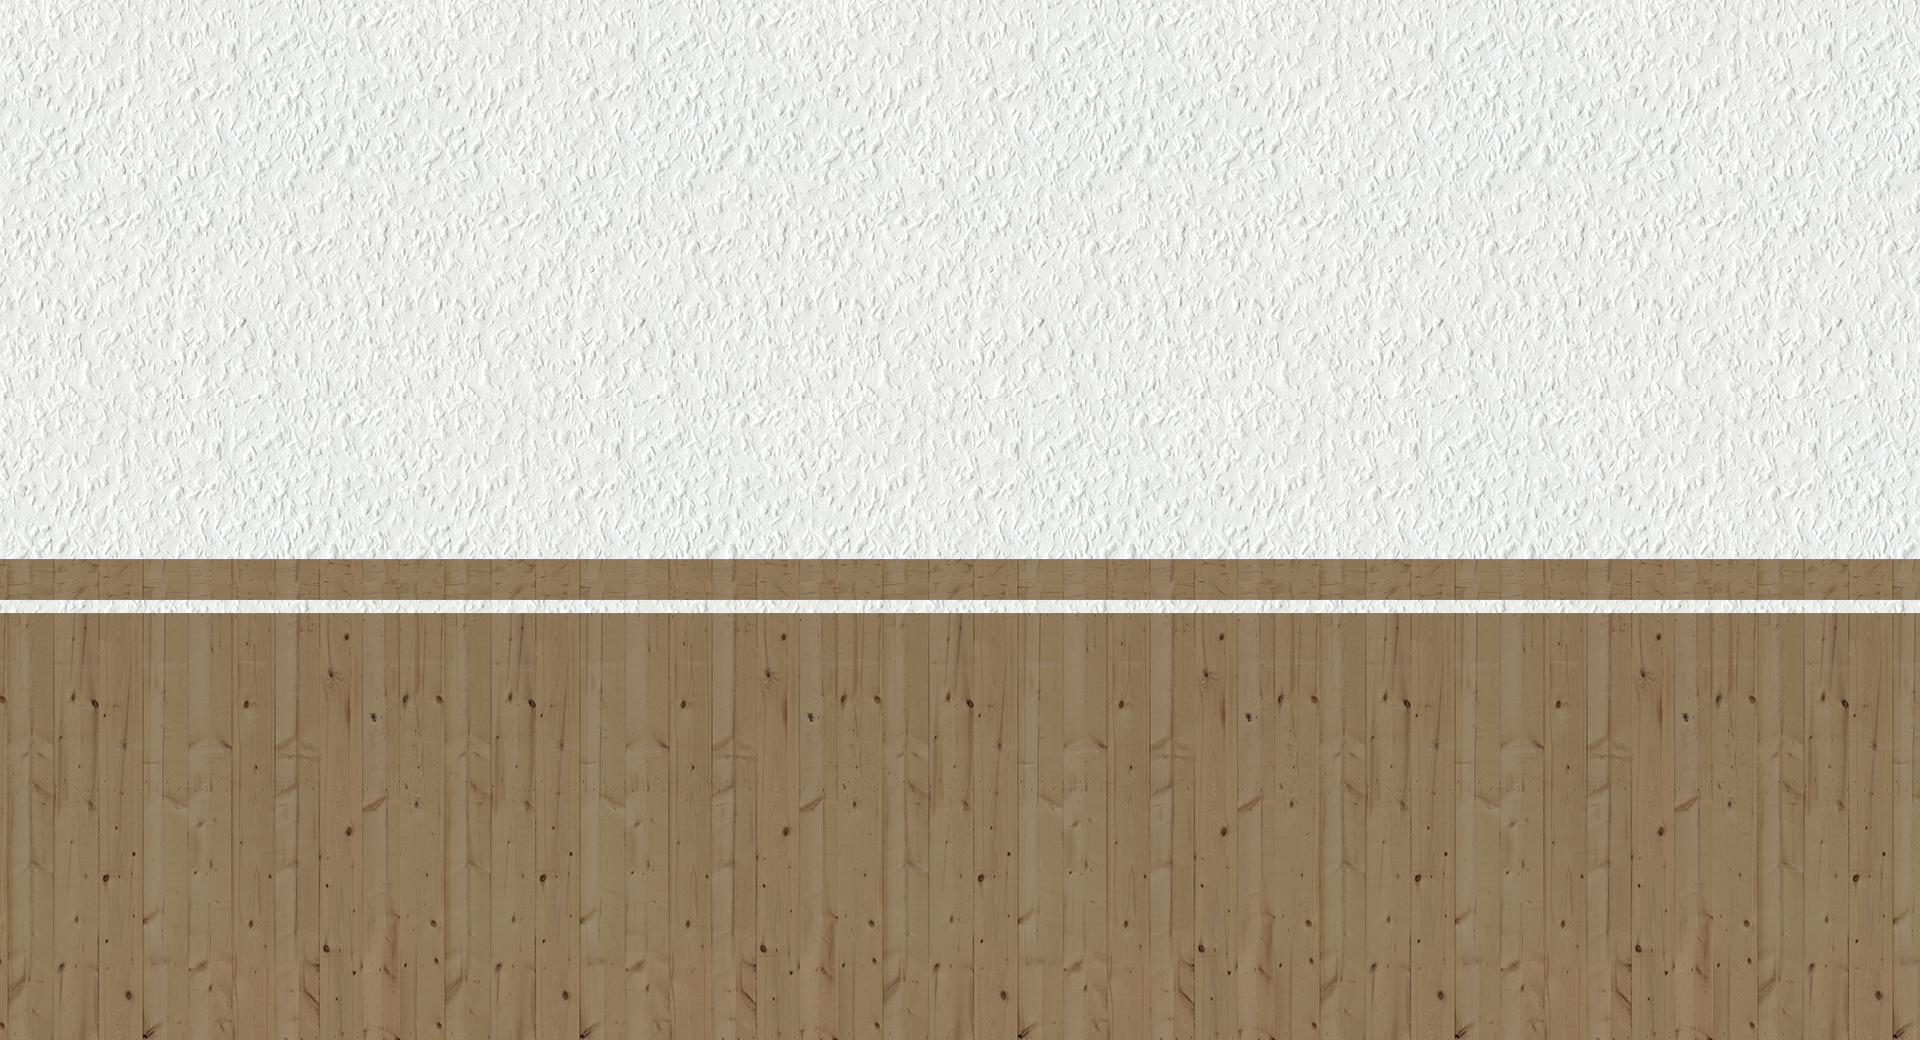
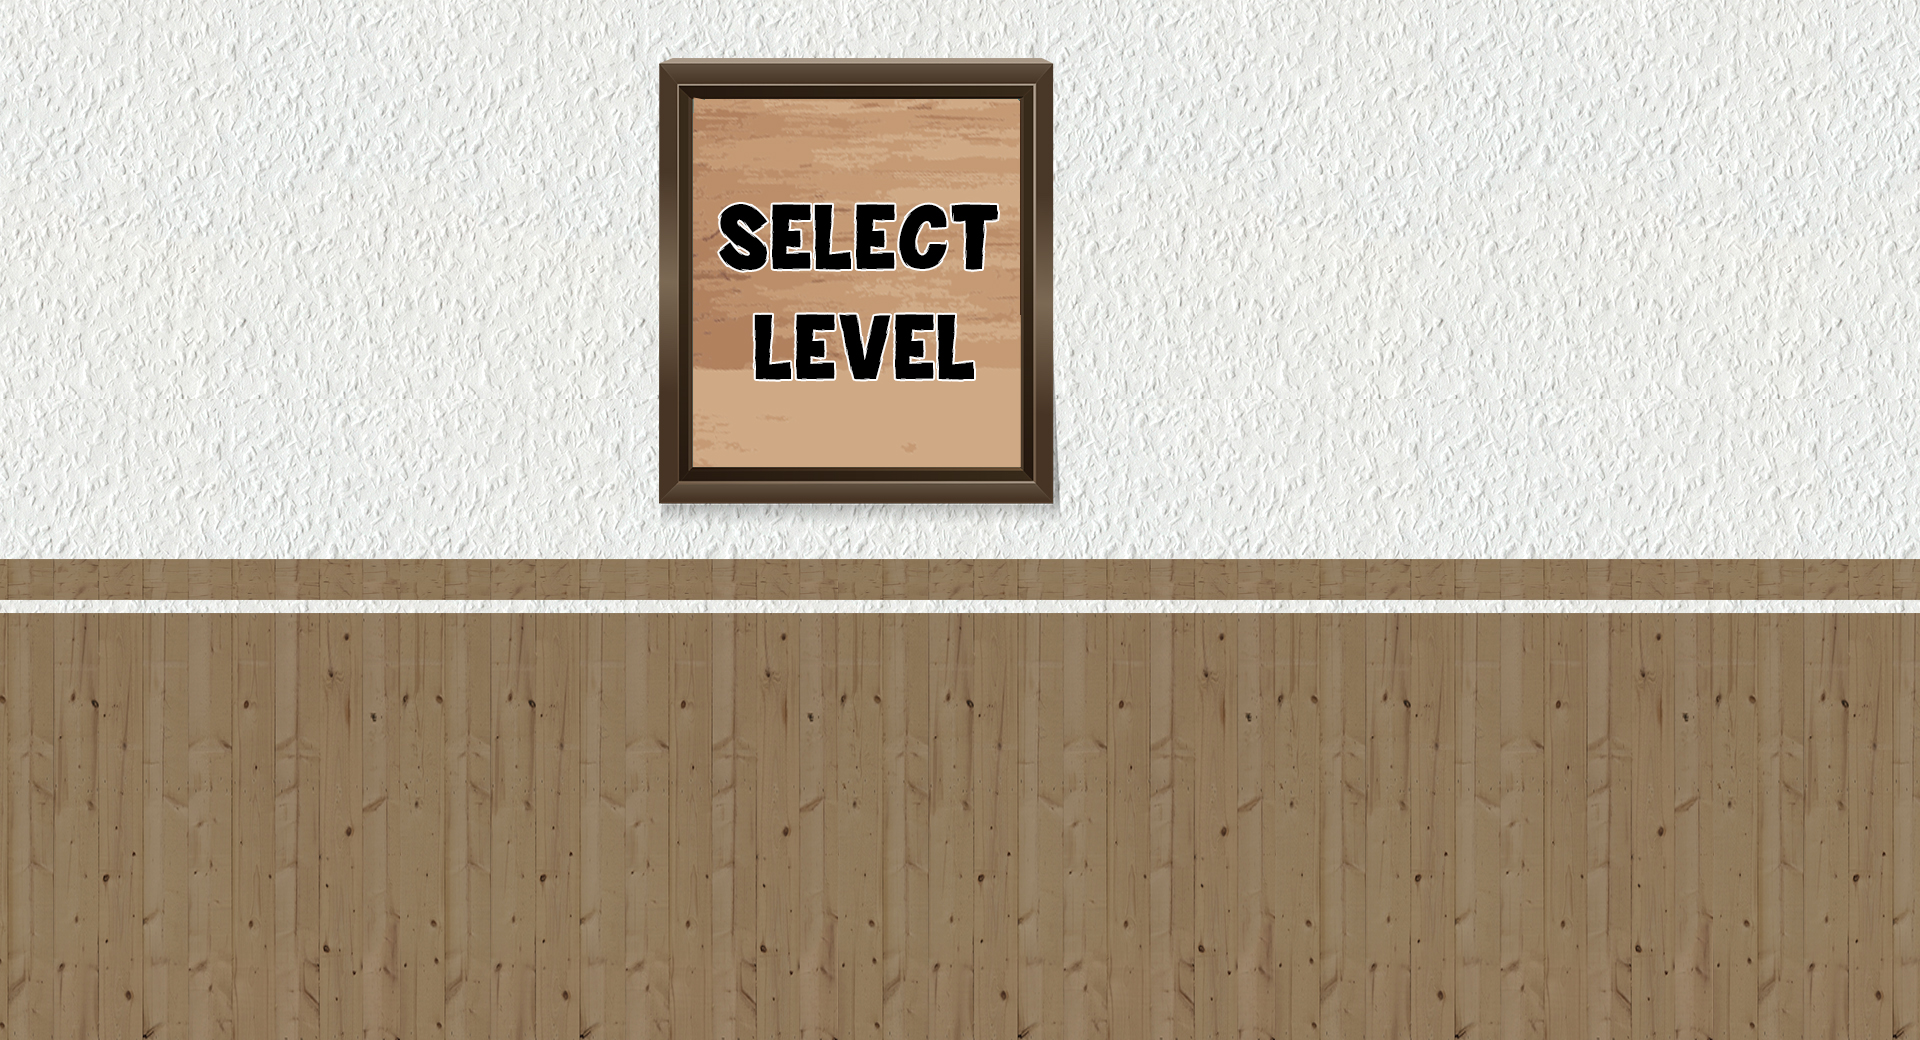
Arreglado cambio en selecion de nivel (escenario)

Changed region(s): [[0.3438, 0.0308, 0.5625, 0.5231]]

diff --git a/src/PlayState.cpp b/src/PlayState.cpp
@@ -723,27 +723,30 @@ void PlayState::createScenario(Scenario::Scenario nextScenario){
 		//Muros--------------------------------------------------------------------------------------------------------
 
 		GameEntity* gameEntityW = new GameEntity();
-
-		//Muro de Atrás "bien colocado"
-		Ogre::Vector3 positionWallSelection(-14,0,3);  
 		Ogre::Vector3 scaleWallSelection = Ogre::Vector3(1,1,1);
-		gameEntityW = createGameEntity("WallMenu_Back", "wallSelection2.mesh", positionWallSelection, scaleWallSelection);
-		gameEntityW->getSceneNode()->setVisible(false);
+		//Muro de Atrás "bien colocado"
+		Ogre::Vector3 positionWallSelection(-60,0,3); //-14 
+		gameEntityW = createGameEntity("WallMenu_Back", "wallSelection3.mesh", positionWallSelection, scaleWallSelection);
+		//gameEntityW->getSceneNode()->setVisible(false);
 
 		//Muro de Delante "bien colocado"
 		Ogre::Vector3 positionWallSelection1(30,0,2);
-		Ogre::Vector3 scaleWallSelection1 = Ogre::Vector3(1,1,1);
-		gameEntityW = createGameEntity("WallMenu_Front", "wallSelection2.mesh", positionWallSelection1, scaleWallSelection1);
+		gameEntityW = createGameEntity("WallMenu_Front", "wallSelection2.mesh", positionWallSelection1, scaleWallSelection);
 
 		//Muro de la Derecha "bien colocado"
 		Ogre::Vector3 positionWallSelection2(10,0,37);
-		Ogre::Vector3 scaleWallSelection2 = Ogre::Vector3(1,1,1);
-		gameEntityW = createGameEntity("WallMenu_Right", "wallSelection.mesh", positionWallSelection2, scaleWallSelection2);
+		gameEntityW = createGameEntity("WallMenu_Right", "wallSelection.mesh", positionWallSelection2, scaleWallSelection);
+
+		Ogre::Vector3 positionWallSelection3(-38,0,45);
+		gameEntityW = createGameEntity("WallMenu_Right2", "wallSelection.mesh", positionWallSelection3, scaleWallSelection);
 
 		//Muro de la Izquierda "bien colocado"
-		Ogre::Vector3 positionWallSelection3(9,0,-35);
-		Ogre::Vector3 scaleWallSelection3 = Ogre::Vector3(1,1,1);
-		gameEntityW = createGameEntity("WallMenu_Left", "wallSelection1.mesh", positionWallSelection3, scaleWallSelection3);
+		Ogre::Vector3 positionWallSelection4(9,0,-35);
+		gameEntityW = createGameEntity("WallMenu_Left", "wallSelection1.mesh", positionWallSelection4, scaleWallSelection);
+
+		//Muro Izquierda 2
+		Ogre::Vector3 positionWallSelection5(-38,0,-36);
+		gameEntityW = createGameEntity("WallMenu_Left2", "wallSelection1.mesh", positionWallSelection5, scaleWallSelection);
 
 
 		//-------------------------------------------------------------------------------------------------------
